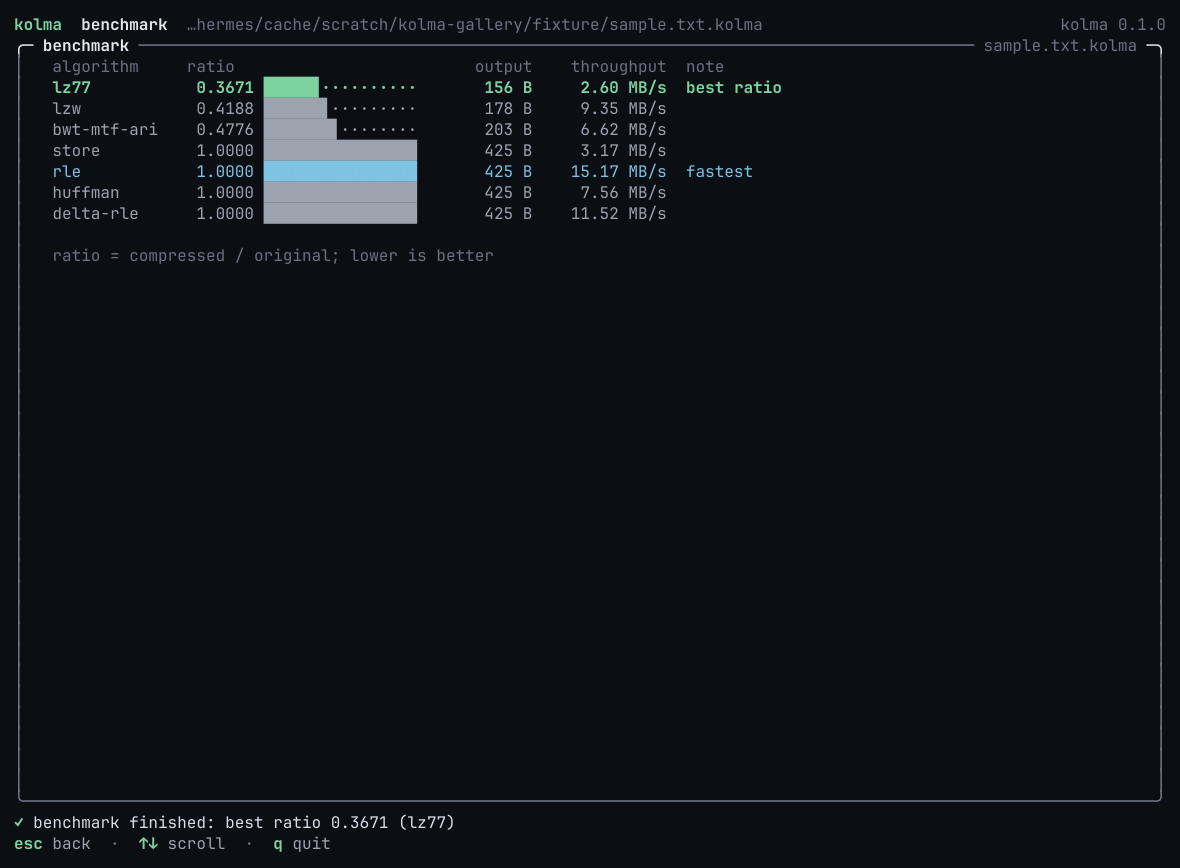
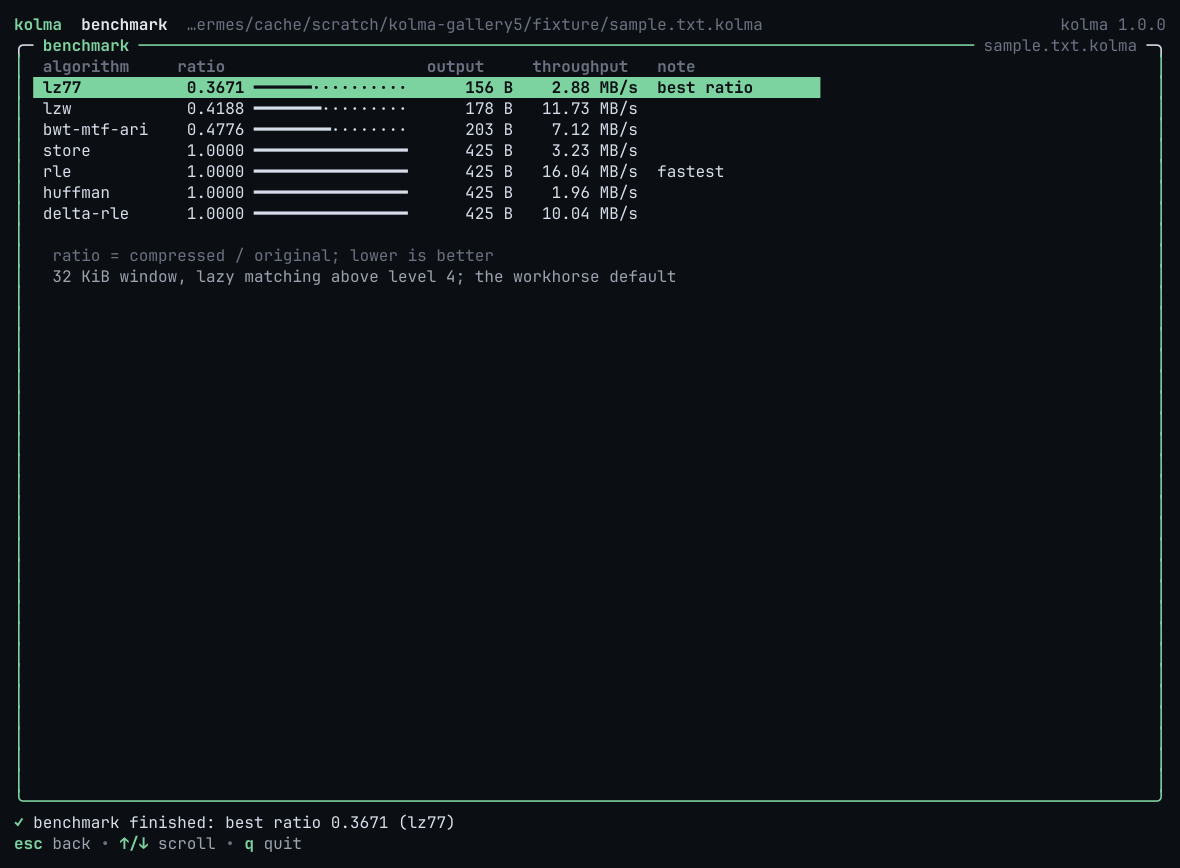
Docs: regenerate demo GIF and screenshots from the upgraded TUI
New filter screenshot, refreshed browse/inspect/run/bench/info/help
frames and demo.gif, all captured from the current build. README TUI
section documents the fuzzy filter and the full bubbles component set;
Go test count 36.

diff --git a/README.md b/README.md
@@ -127,29 +127,35 @@ KOLMA_PASSWORD=pw kolma compress - < secret.txt \
 `kolma-tui` is a client, not a reimplementation. It shells out to the engine and
 reads the JSON contract the CLI emits, so there is exactly one implementation of
 every algorithm and the interface can be replaced without touching it. Built on
-[bubbletea](https://github.com/charmbracelet/bubbletea),
-[lipgloss](https://github.com/charmbracelet/lipgloss) and
-[bubbles](https://github.com/charmbracelet/bubbles); the design follows the
-discipline of lazygit and btop — one dark canvas, five semantic hues, panels
-with border-embedded titles, and a contextual key bar.
+the Charm stack: bubbletea, lipgloss, and bubbles (list with fuzzy filtering,
+table, help, key, spinner, progress, viewport, textinput). The design follows the
+discipline of lazygit and btop: one dark canvas, five semantic hues, panels
+with border-embedded titles, and a contextual key bar generated from the same
+binding map that drives the keys.
 
-| browse | inspect |
+| browse | fuzzy filter |
 | --- | --- |
-| ![browse](docs/screenshots/browse.png) | ![inspect](docs/screenshots/inspect.png) |
+| ![browse](docs/screenshots/browse.png) | ![filter](docs/screenshots/filter.png) |
 
-| run result | benchmark |
+| inspect | run result |
 | --- | --- |
-| ![run result](docs/screenshots/run-result.png) | ![benchmark](docs/screenshots/bench.png) |
+| ![inspect](docs/screenshots/inspect.png) | ![run result](docs/screenshots/run-result.png) |
+
+| benchmark | archive info |
+| --- | --- |
+| ![benchmark](docs/screenshots/bench.png) | ![archive info](docs/screenshots/info-encrypted.png) |
 
 Selecting a file runs the analyser for real and shows you what it found, along
 with the evidence: the verdict, the sample trials with their ratios and times,
 and the rationale. Settings sit beside it (stacked on narrow terminals); every
-panel scrolls when the terminal is short, and nothing ever overflows — a test
-asserts that at four terminal sizes.
+panel scrolls when the terminal is short, and nothing ever overflows. A test
+asserts that at four terminal sizes, and every screen is vision-audited from
+real terminal captures.
 
 | key | what it does |
 | --- | --- |
 | `j` / `k`, arrows | move in the browser (mouse wheel and click work too) |
+| `/` | fuzzy-filter the file list; `enter` accepts, `esc` clears |
 | `enter` | open a directory, or select a file and analyse it |
 | `backspace` | go up a directory |
 | `.` | show or hide dotfiles |
@@ -161,7 +167,7 @@ asserts that at four terminal sizes.
 | `o` / `w` | edit the output path, set a password |
 | `c` / `d` | compress, decompress (a second press confirms overwriting) |
 | `b` / `i` | benchmark every method, read an archive's header |
-| `↑` / `↓`, wheel | scroll long screens |
+| `↑` / `↓`, wheel | scroll long screens; move the benchmark table selection |
 | `?` | help |
 | `esc` | back one screen |
 | `q` | quit |
@@ -310,7 +316,7 @@ treat it as a starting point; the CMake and Go builds are the tested paths.
 
 ```sh
 make test        # 75 C++ tests
-make tui-test    # 32 Go tests, driving the real engine binary
+make tui-test    # 36 Go tests, driving the real engine binary
 make smoke       # drives the TUI through a pty and asserts on the frames
 make check       # all three
 make fuzz        # libFuzzer under ASan/UBSan (needs clang; FUZZ_TIME=seconds)
